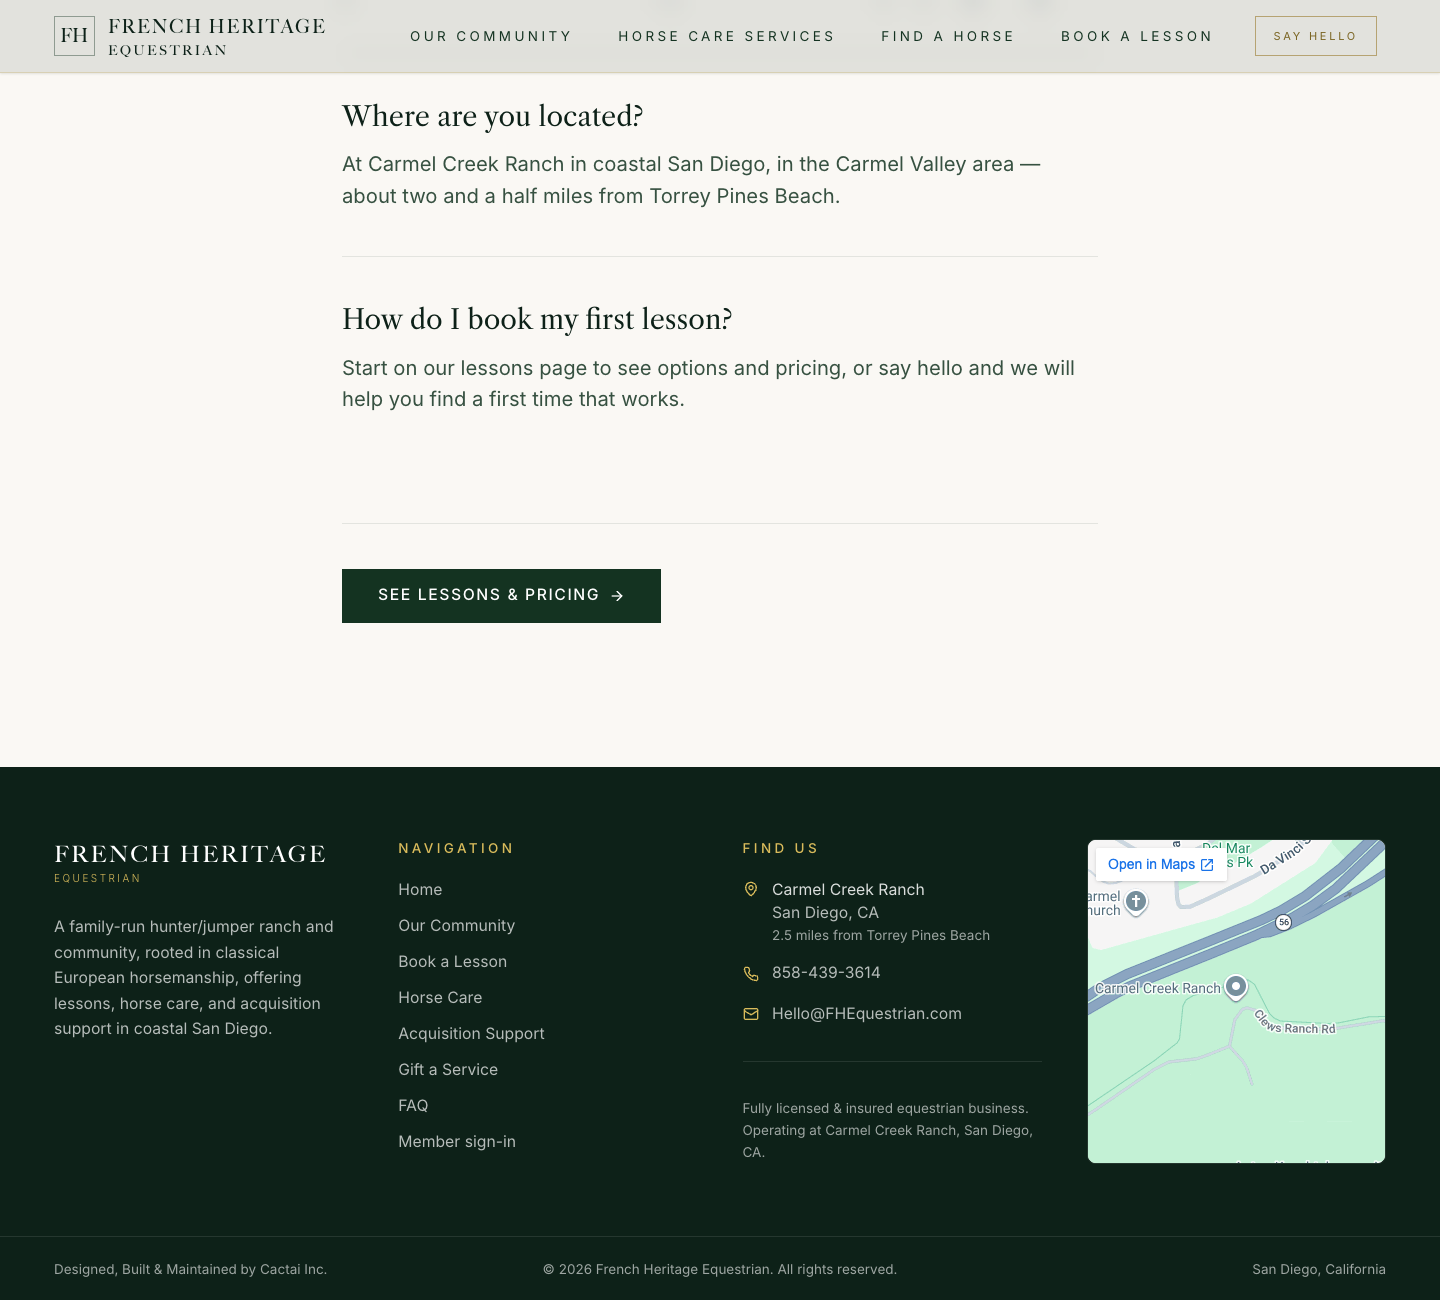
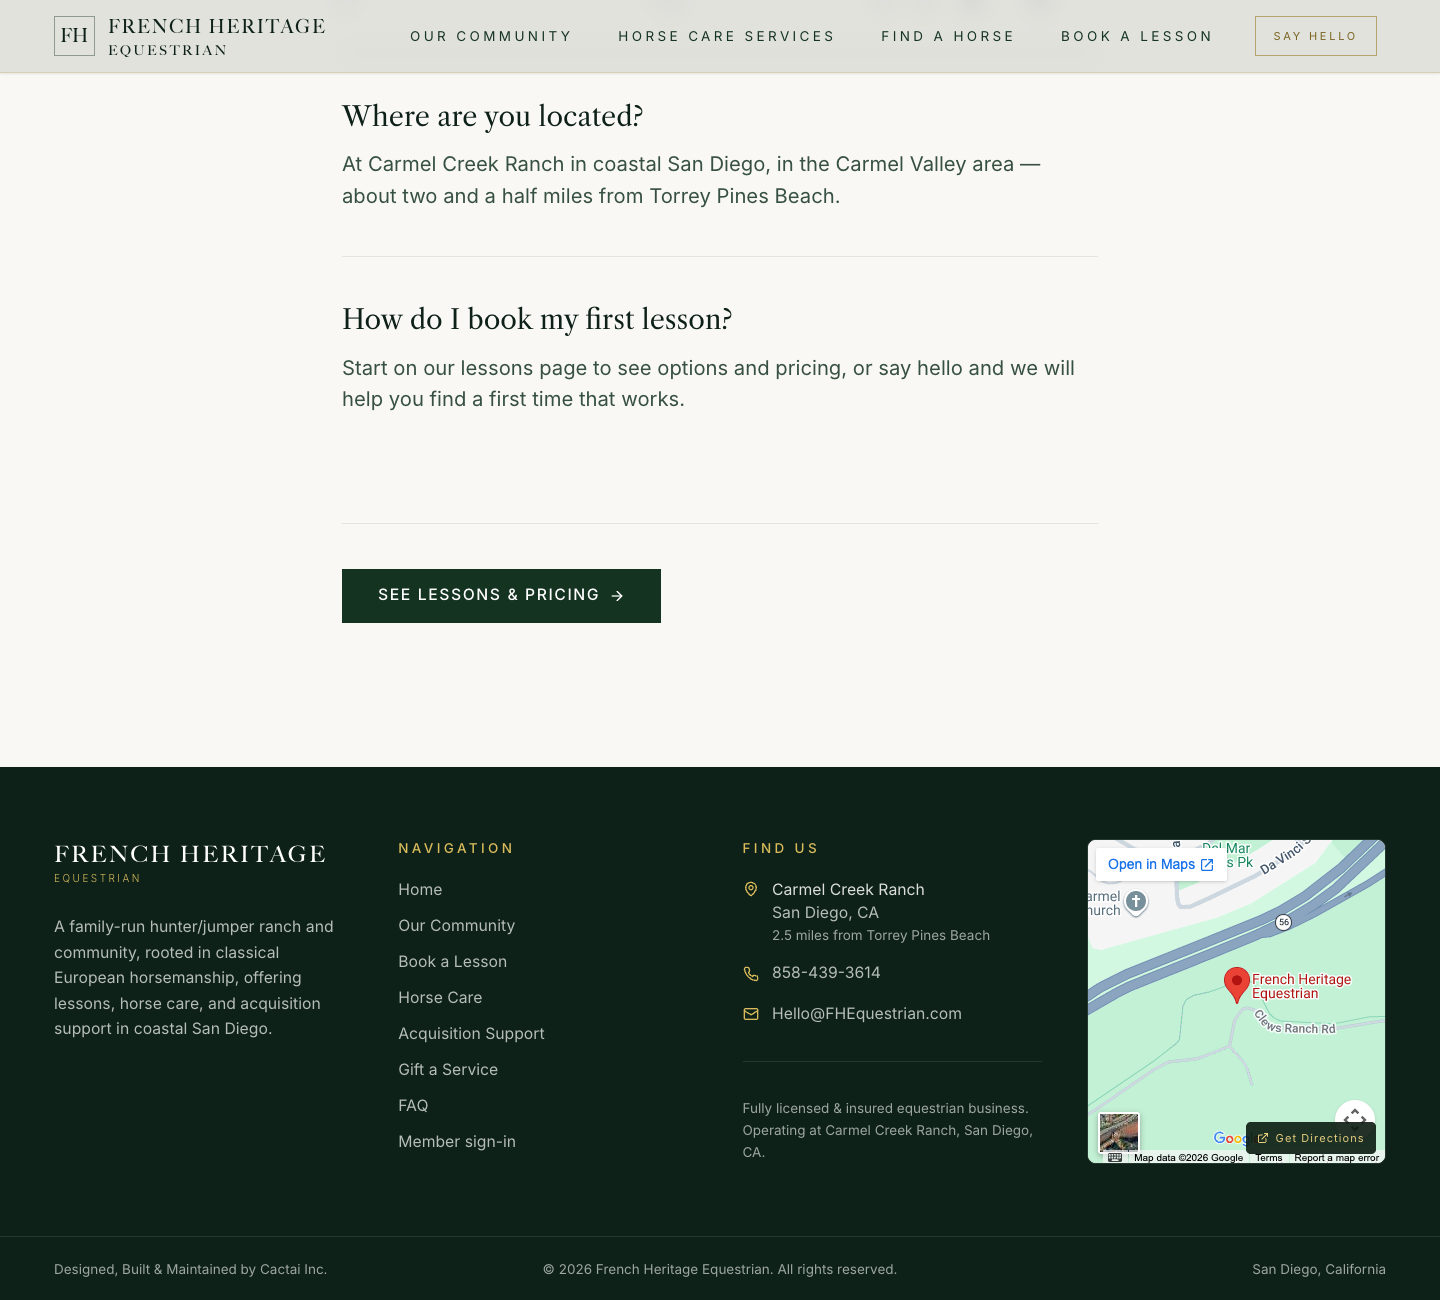
TASK-FOOTER: real address (Ste A) + tap-to-open-Maps on the footer card
Owner supplied the actual Google-listing address mid-review (CCR's address,
Ste A). Verified against prod (locations row 2d771cea-...) rather than trust
a migration comment that had it wrong (11500 vs the real 11600 Clews Ranch
Road) -- no data written, presentation only.

Map query now includes the business name + suite, which resolves to the
real verified "French Heritage Equestrian" listing pin instead of a generic
address pin.

Card is now a single tap target: iframe goes pointer-events-none/aria-hidden
(a plain <a> wrapping an <iframe> can't intercept clicks landing inside the
iframe), an absolute-inset overlay <a> opens Google's universal Maps URL in
a new tab -- opens the native app on a phone that has it, browser otherwise,
landing on Google's own listing with Google's own Directions button.

Changed region(s): [[0.75, 0.8308, 0.9688, 0.8923], [0.75, 0.7385, 0.9375, 0.7692]]

diff --git a/src/components/layout/Footer.tsx b/src/components/layout/Footer.tsx
@@ -1,10 +1,25 @@
 import { Link } from 'react-router-dom';
 import { useAuth } from '../../contexts/AuthContext';
-import { MapPin, Phone, Mail } from 'lucide-react';
+import { MapPin, Phone, Mail, ExternalLink } from 'lucide-react';
 import { BRAND } from '../../lib/brand';
 
-const MAP_EMBED_SRC =
-  'https://www.google.com/maps?q=Carmel+Creek+Ranch,+San+Diego,+CA&output=embed';
+// Live `locations` row for Carmel Creek Ranch (id 2d771cea-…, verified
+// against prod, 2026-08-17): address_line1 "11600 Clews Ranch Road", San
+// Diego, CA 92130 — differs from an older migration comment that said
+// "11500", so this is taken from the DB, not that file. "Ste A" per the
+// owner (2026-08-17): the Google listing carries a suite letter CCR's own
+// address doesn't.
+const MAP_QUERY = 'French Heritage Equestrian, 11600 Clews Ranch Road, Ste A, San Diego, CA 92130';
+const MAP_EMBED_SRC = `https://www.google.com/maps?q=${encodeURIComponent(MAP_QUERY)}&output=embed`;
+// Universal Maps URL (google.com/maps/search) — on a phone with the Google
+// Maps app installed this opens the app itself (iOS treats it as a
+// universal link); otherwise it opens Google Maps in the browser. Either
+// way the visitor lands on the business listing with Google's own
+// Directions button, not a page we built. If the owner has the Business
+// Profile's own share link (a maps.app.goo.gl/… or a `cid=` URL), swapping
+// it in here is a one-line change — that would point more precisely at the
+// verified listing than a name+address search does.
+const MAPS_LISTING_URL = `https://www.google.com/maps/search/?api=1&query=${encodeURIComponent(MAP_QUERY)}`;
 
 export default function Footer() {
   const { user } = useAuth();
@@ -105,15 +120,30 @@ export default function Footer() {
           </div>
         </div>
 
-        {/* Map */}
-        <div className="rounded-lg overflow-hidden border border-white/10 aspect-[4/3] md:aspect-auto md:h-full min-h-[220px]">
+        {/* Map — tap opens the listing in Google/Apple Maps for directions;
+            the iframe underneath is a non-interactive visual preview. */}
+        <div className="relative rounded-lg overflow-hidden border border-white/10 aspect-[4/3] md:aspect-auto md:h-full min-h-[220px]">
           <iframe
             src={MAP_EMBED_SRC}
-            title="Map showing Carmel Creek Ranch, San Diego, CA"
+            title="Map showing French Heritage Equestrian at Carmel Creek Ranch, San Diego, CA"
             loading="lazy"
             referrerPolicy="no-referrer-when-downgrade"
-            className="w-full h-full border-0"
+            tabIndex={-1}
+            aria-hidden="true"
+            className="w-full h-full border-0 pointer-events-none"
           />
+          <a
+            href={MAPS_LISTING_URL}
+            target="_blank"
+            rel="noopener noreferrer"
+            className="absolute inset-0 focus-ring-dark"
+            aria-label="Open French Heritage Equestrian in Maps for directions"
+          >
+            <span className="absolute bottom-2 right-2 inline-flex items-center gap-1.5 bg-green-950/90 text-gold-300 text-[11px] font-sans tracking-wide px-2.5 py-1.5 rounded">
+              <ExternalLink size={12} aria-hidden="true" />
+              Get Directions
+            </span>
+          </a>
         </div>
       </div>
 

diff --git a/docs/reports/TASK-FOOTER-REPORT.md b/docs/reports/TASK-FOOTER-REPORT.md
@@ -56,6 +56,63 @@ a styled/dark map (requires a Maps JavaScript API key + Cloud Console setup —
 out of scope for a presentation-only task) or a lower-contrast treatment
 (reduced opacity, grayscale filter) applied to the current key-less embed.
 
+**Mid-session addition — the real address, and a tappable card (owner,
+2026-08-17):** the owner supplied the actual Google-listing address ("same as
+CCR but we're listed as STE A") and asked for tap-to-open-Maps behavior:
+*"the visitor should see the map, tap it and their google map or apple map
+opens and they see our listing page and they can click a button to get the
+directions started."*
+
+- **Address, verified against prod, not the migration file.** The
+  `locations` row for Carmel Creek Ranch
+  (`2d771cea-5150-43b9-8e3d-38faa434a07d`) has `address_line1 = '11600 Clews
+  Ranch Road'` — the migration comment in
+  `20260803010001_horse_location_multiline.sql` says "11500", which is
+  **wrong**; I queried the live row directly (`psql`, read-only `SELECT`, no
+  write) rather than trust the file, per the repo's working rule. Query now
+  used for both the embed and the outbound link:
+  `French Heritage Equestrian, 11600 Clews Ranch Road, Ste A, San Diego, CA
+  92130`. **This did not touch the `locations` table or any other data** —
+  presentation-only, per the task; the visible "Find Us" text block still
+  reads the deliberately-imprecise "Carmel Creek Ranch, San Diego, CA," only
+  the map's own query string changed.
+- **The query resolves to the real verified listing**, not a generic pin —
+  visible in `footer-desktop.png`/`footer-mobile.png` as a red marker
+  labeled "French Heritage Equestrian" (the earlier screenshots, before this
+  address, showed an unlabeled generic pin). That's a good sign the Business
+  Profile at that address is real and findable.
+- **Tap-to-open, built as an overlay, not a wrapped iframe.** An `<a>`
+  wrapping an `<iframe>` doesn't work — clicks landing inside the iframe's
+  boundary go to the iframe's own content (panning the map, or its tiny
+  built-in "Open in Maps" chip), not the outer link. So the iframe is now
+  `pointer-events-none` and purely a visual preview
+  (`aria-hidden`, `tabIndex={-1}`); a full-cover `<a
+  className="absolute inset-0">` sits on top and is the actual single tap
+  target for the whole card, with a small "Get Directions" badge
+  (bottom-right, visible in both screenshots) as a visual affordance so it
+  doesn't read as a dead embed. `target="_blank" rel="noopener noreferrer"`.
+- **The link is a universal Google Maps URL**
+  (`google.com/maps/search/?api=1&query=…`), not a scheme-specific one. On a
+  phone with the Google Maps app installed, iOS/Android both treat
+  `google.com/maps` links as a universal/app link and hand off to the app
+  directly; without the app installed it opens Google Maps in the browser.
+  Either way the visitor lands on Google's own listing page with Google's own
+  Directions button — I did not build a directions button, because Google's
+  is the "real" one the owner is describing. I did not build an
+  Apple-Maps-specific path (`maps://` / UA-sniffing to pick a scheme) — that
+  would add real complexity for a presentation-only task, and the universal
+  URL already produces the described experience (tap → app opens → their
+  listing → Directions) on the platforms most visitors carry. Flagging in
+  case the owner wants Apple Maps as an explicit alternate, not just Safari's
+  own handoff behavior.
+- **If the owner has the Business Profile's own share link** (a
+  `maps.app.goo.gl/…` short link, or a full `…?cid=…` URL, from the "Share"
+  button on their own listing), that would point more precisely at the exact
+  verified card than a name+address search does, and swapping it into
+  `MAPS_LISTING_URL` in `Footer.tsx` is a one-line change — I used the
+  search-query form because I don't have that link, not because it's the
+  better choice.
+
 ## F2 — sign-in moves into the footer nav: DONE
 
 The bottom-bar `Member area` / `Member sign-in` link is gone; the same
